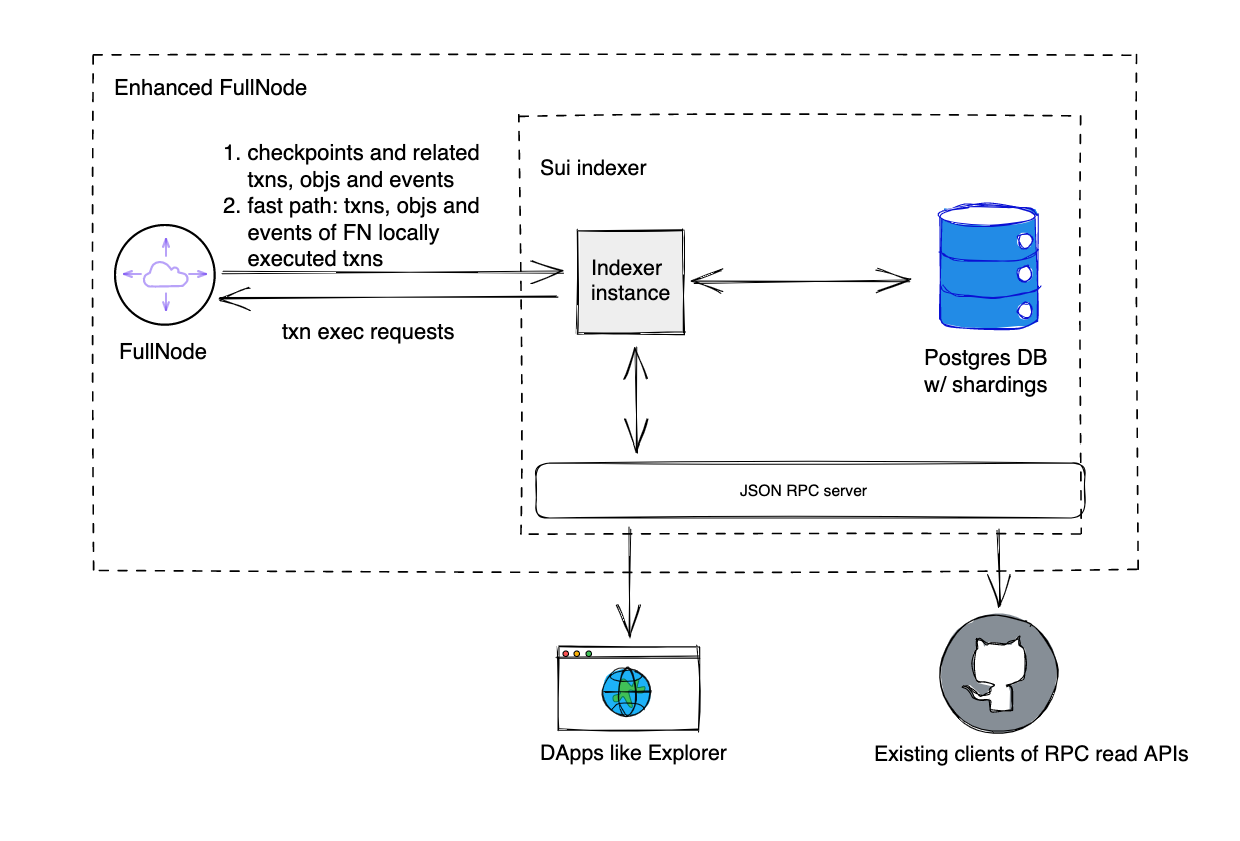
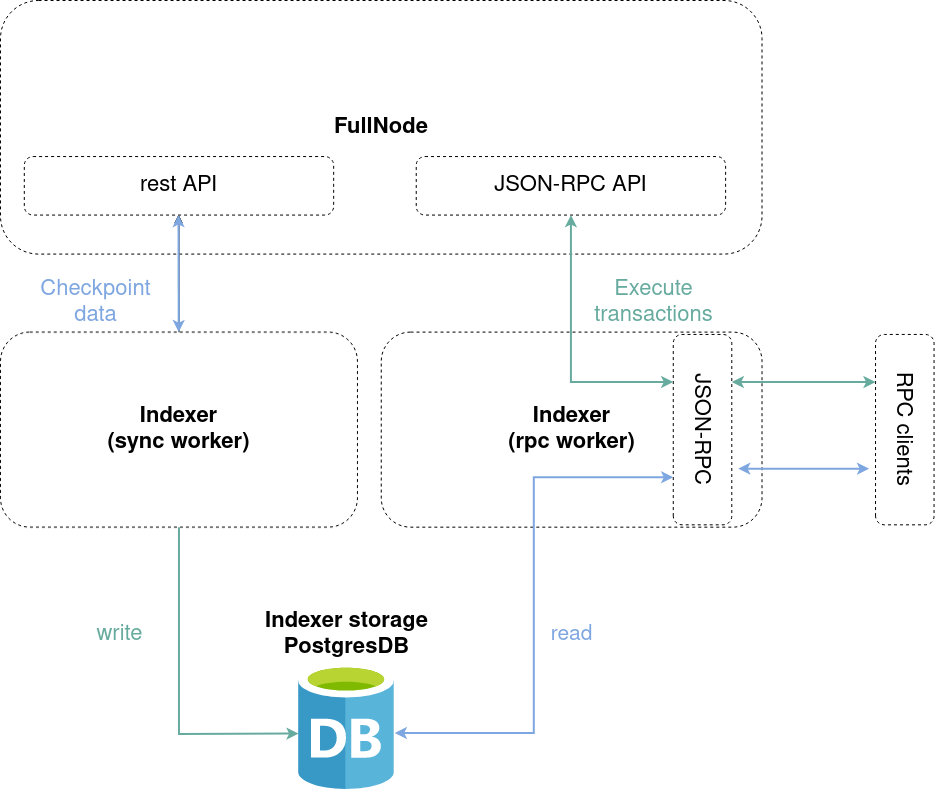
docs(iota-indexer): update architecture diagram (#1452)

diff --git a/crates/iota-indexer/README.md b/crates/iota-indexer/README.md
@@ -2,7 +2,16 @@ Iota indexer is an off-fullnode service to serve data from Iota protocol, includ
 
 ## Architecture
 
-![enhanced_FN](https://user-images.githubusercontent.com/106119108/221022505-a1d873c6-60e2-45f1-b2aa-e50192c4dfbb.png)
+![enhanced_FN](../../docs/content/operator/images/indexer-arch.png)
+
+> [!NOTE]
+>
+> - Indexer sync workers require the `NodeConfig::enable_experimental_rest_api` flag set to `true` in the node
+> - Fullnodes expose both read and write json-rpc APIs. Hence transactions may be executed only through fullnodes.
+> - Validators expose only read-only JSON-RPC APIs.
+> - Read-only APIs in the node variants expose the same methods as the indexer read-only APIs with the following difference
+>   - Nodes expose the `NameServiceConfig` API, whereas indexer instances do not.
+>   - Indexer instance expose the `ExtendedApi`, but nodes do not.
 
 ## Steps to run locally
 
